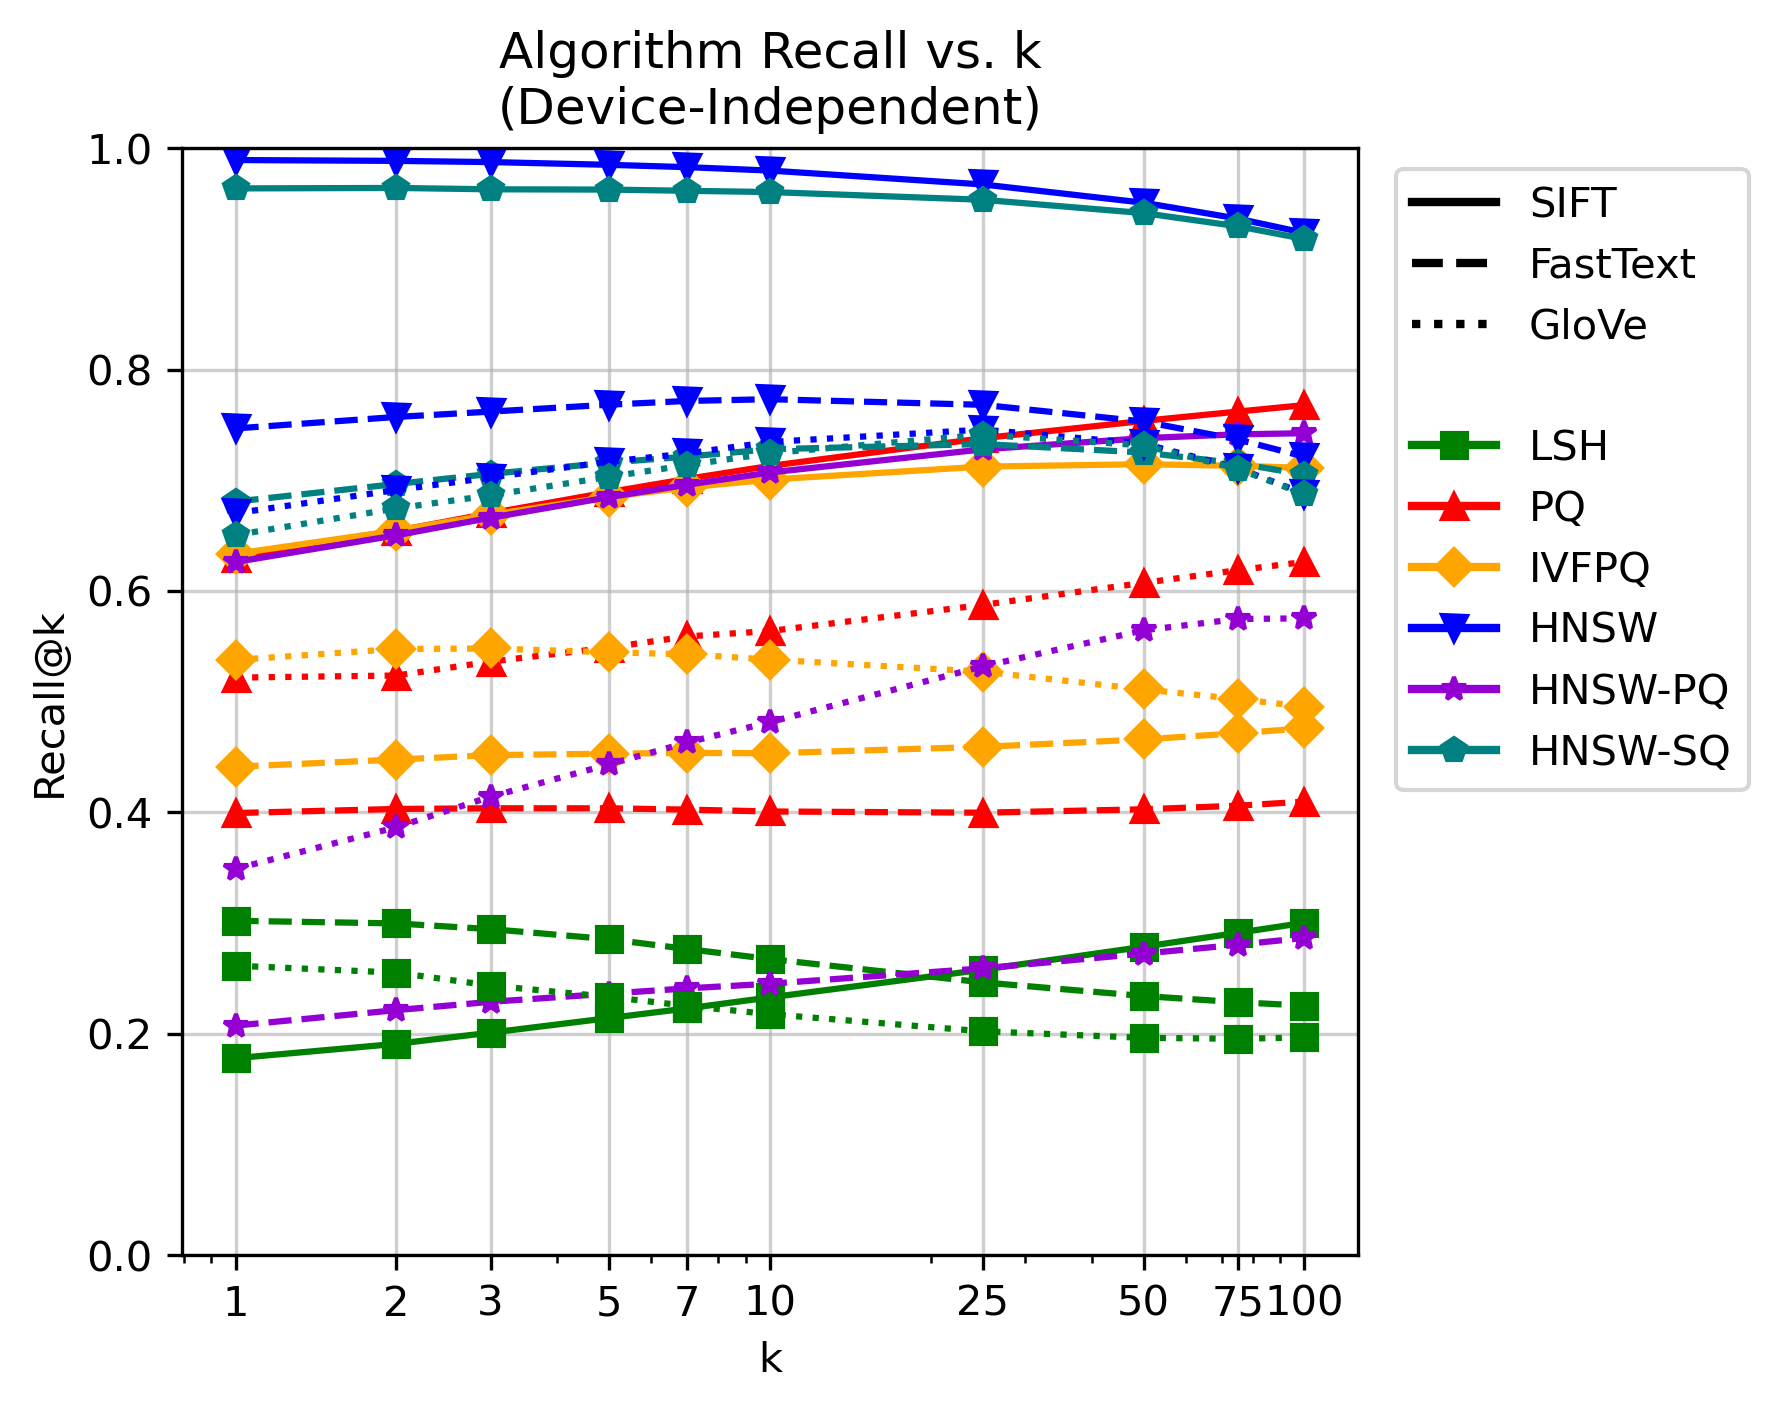
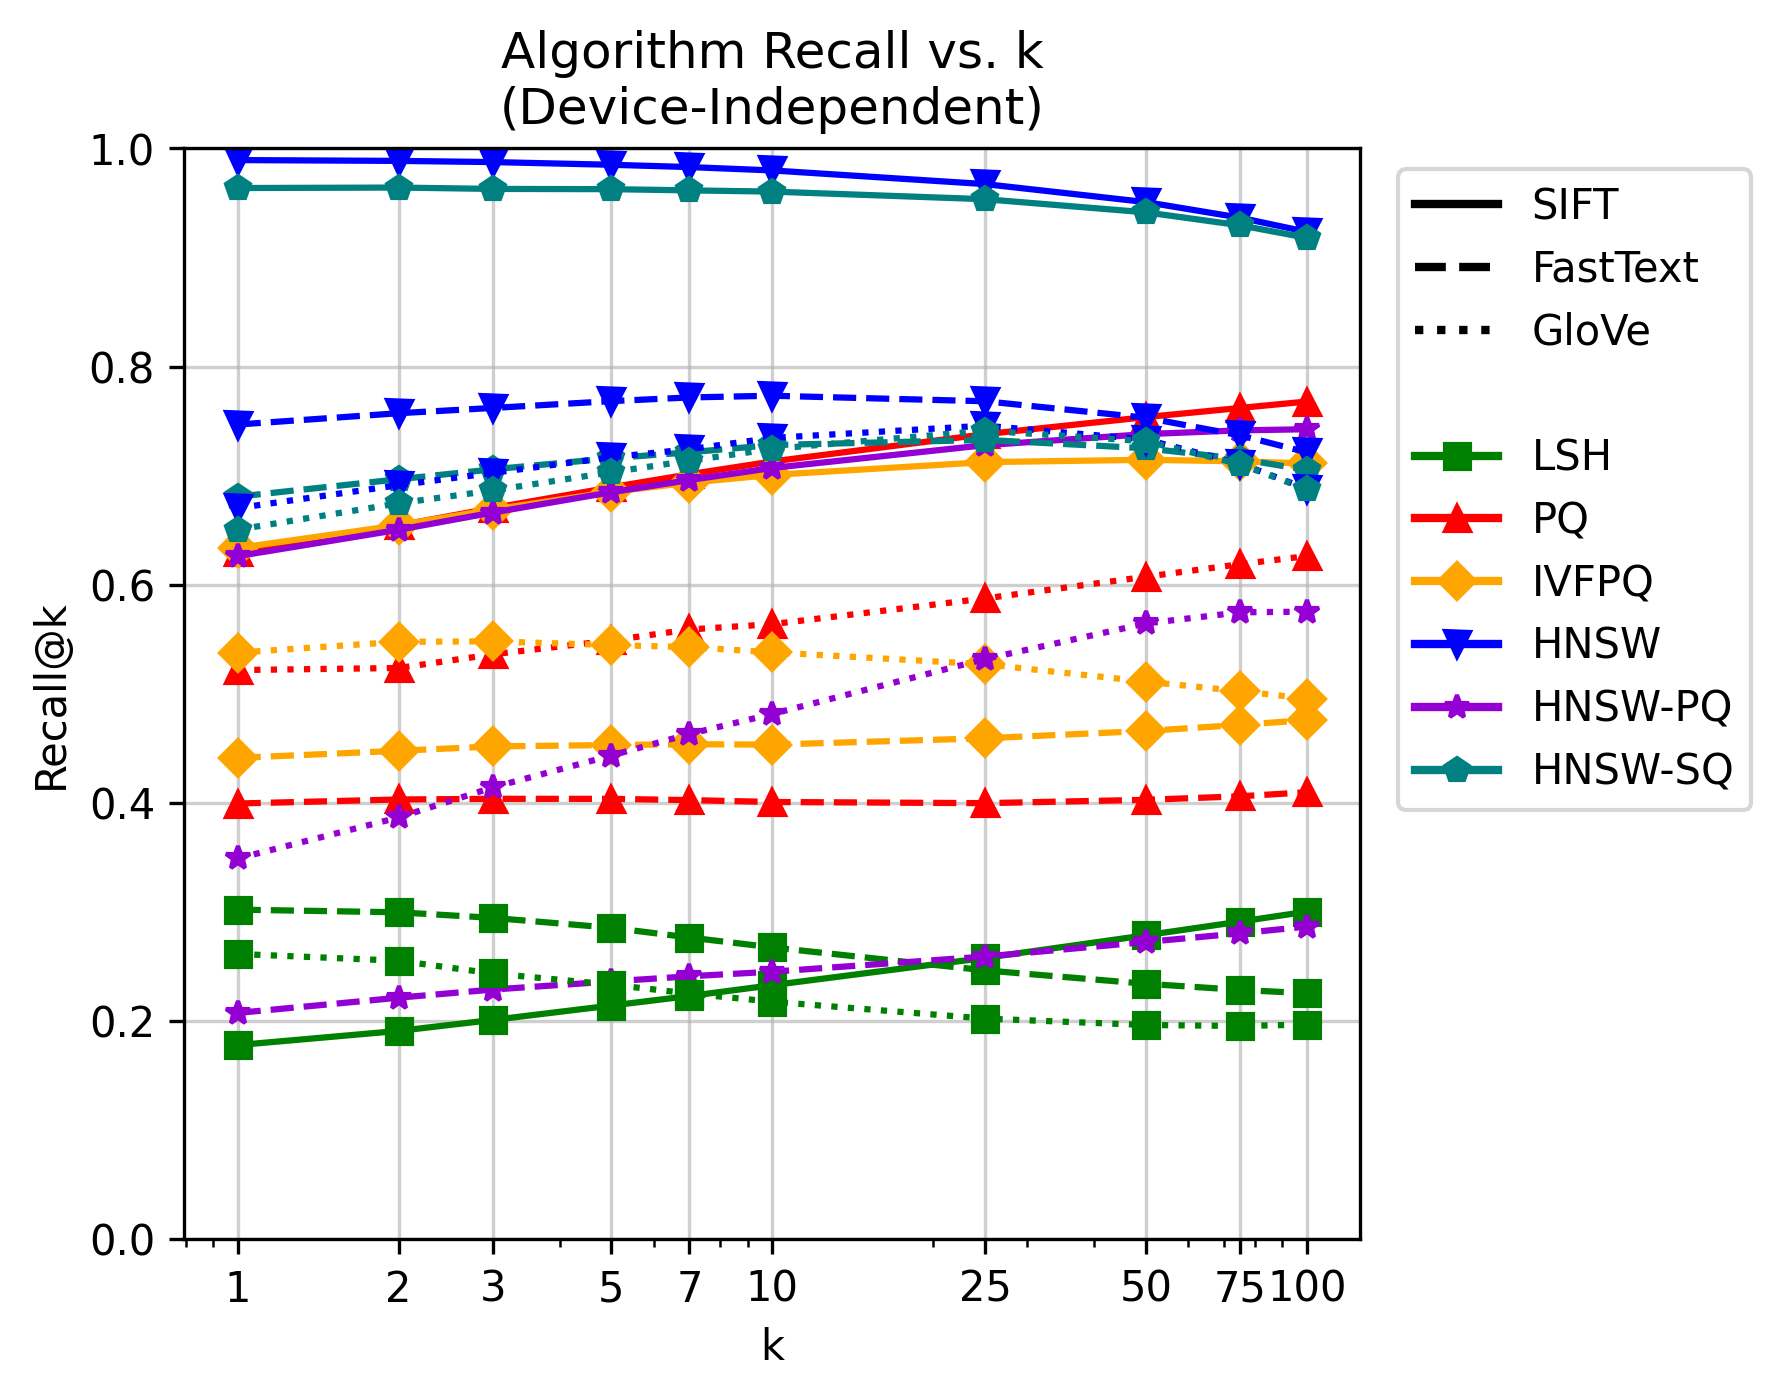
graph aesthetics updates

diff --git a/vector_similarity_test/grapher.py b/vector_similarity_test/grapher.py
@@ -56,9 +56,11 @@ if "multitest" in bf3_results:
 
 
 
-SPACEV_N = results[device][dataset][str(dimensions)][str(num_vecs)]
 SPACEV_D = 100
-
+try:
+    SPACEV_N = results["host"][SPACEV][SPACEV_D].keys()[0]
+except:
+    SPACEV_N = None
 
 
 # Define helper functions
@@ -154,7 +156,10 @@ def make_legend_lines(colors, alphas, styles, marks):
 rs   = get_kvaried_run("host", SIFT,     SIFT_D,      SIFT_N,      DEFAULT_THREADS)
 rf   = get_kvaried_run("host", FASTTEXT, FASTTEXT_D,  FASTTEXT_N,  DEFAULT_THREADS)
 rg   = get_kvaried_run("host", GLOVE,    GLOVE_D,     GLOVE_N,     DEFAULT_THREADS)
-rv = get_kvaried_run("host", SPACEV, SPACEV_D, SPACE_N, DEFAULT_THREADS)
+try:
+    rv = get_kvaried_run("host", SPACEV, SPACEV_D, SPACEV_N, DEFAULT_THREADS)
+except KeyError:
+    rv = None
 k  = rg["k_values"]
 
 # Setup Custom Legend
@@ -275,7 +280,10 @@ finish_plot("scatter_time_cost.png")
 rs_b  = get_kvaried_run("bf3", SIFT,     SIFT_D,      SIFT_N,      DEFAULT_THREADS)
 rf_b  = get_kvaried_run("bf3", FASTTEXT, FASTTEXT_D,  FASTTEXT_N,  DEFAULT_THREADS)
 rg_b  = get_kvaried_run("bf3", GLOVE,    GLOVE_D,     GLOVE_N,     DEFAULT_THREADS)
-rv_b = get_kvaried_run("bf3", SPACEV, SPACEV_D, SPACEV_N, DEFAULT_THREADS )
+try:
+    rv_b = get_kvaried_run("bf3", SPACEV, SPACEV_D, SPACEV_N, DEFAULT_THREADS )
+except KeyError:
+    rv_b = None
 r_h = (rs, rf, rg)
 r_b = (rs_b, rf_b, rg_b)
 
@@ -316,7 +324,8 @@ for name, alpha, size in zip(DATASET_NAMES, (1.0, 0.5, 0.2), (30, 20, 10)):
 plt.scatter([], [], color='black', alpha=0, label=' ')
 
 # Plot Chosen params
-for size, linestyle, host_data, bf3_data in ((40, "-", rv, rv_b )(30, "--", rs, rs_b), (20, "-.", rf, rf_b), (10, ":", rg, rg_b)):
+params = ((40, "-", rv, rv_b ), (30, "--", rs, rs_b), (20, "-.", rf, rf_b), (10, ":", rg, rg_b)) if rv_b is not None else ((30, "--", rs, rs_b), (20, "-.", rf, rf_b), (10, ":", rg, rg_b))
+for size, linestyle, host_data, bf3_data in params:
     for alg, times, color, m, name in zip(ALG_RECALLS, ALG_TIMES, ALG_COLORS, ALG_MARKERS, ALG_NAMES):
         try:
             t = queries_per_second(host_data[times], host_data["query_size"], ms=False)
@@ -350,15 +359,15 @@ sizes = np.linspace(4, 50, len(x))
 alphas = np.linspace(1.0, 1.0, len(x)) # 0.1-1.0
 widths = np.linspace(0.5, 2, len(x))
 
-# plt.figure(figsize=(5, 3))
+plt.figure(figsize=(5, 4.8))
 
-# Custom Legend
-plt.scatter([], [], color='black', marker='o', label="Host")
-plt.scatter([], [], edgecolors='black', facecolors='none', marker='o', label='BF3')
-plt.scatter([], [], color='black', alpha=0, label=' ')
-# for name, alpha, size in zip(x_labels, alphas, sizes):
-#     plt.scatter([], [], color='black', marker='o', label=name, s=size, alpha=alpha)
+# # Custom Legend
+# plt.scatter([], [], color='black', marker='o', label="Host")
+# plt.scatter([], [], edgecolors='black', facecolors='none', marker='o', label='BF3')
 # plt.scatter([], [], color='black', alpha=0, label=' ')
+# # for name, alpha, size in zip(x_labels, alphas, sizes):
+# #     plt.scatter([], [], color='black', marker='o', label=name, s=size, alpha=alpha)
+# # plt.scatter([], [], color='black', alpha=0, label=' ')
 
 for host_data, bf3_data, size, alpha, w in zip(rs_scale, rs_b_scale, sizes, alphas, widths):
     for alg, times, color, m, name in zip(ALG_RECALLS, ALG_TIMES, ALG_COLORS, ALG_MARKERS, ALG_NAMES):
@@ -380,7 +389,7 @@ setup_plot(
     xlabel=f"{DEFAULT_K}-Recall@{DEFAULT_K}",
     ylabel="Queries / Sec.",
     yscale='log',
-    # legend=False,
+    legend=False,
     xlim=True,
 )
 # plt.legend(bbox_to_anchor=(1.35, 1))
@@ -400,15 +409,16 @@ for r in rs_scale_16:
 for r in rs_b_scale_16:
     assert r["k_values"][0] == DEFAULT_K, f"Expected k={DEFAULT_K} for all runs"
 
-# plt.figure(figsize=(5, 3))
+plt.figure(figsize=(7, 4.8))
 
 # Custom Legend
 plt.scatter([], [], color='black', marker='o', label="Host")
 plt.scatter([], [], edgecolors='black', facecolors='none', marker='o', label='BF3')
 plt.scatter([], [], color='black', alpha=0, label=' ')
-# for name, alpha, size in zip(x_labels, alphas, sizes):
-#     plt.scatter([], [], color='black', marker='o', label=name, s=size, alpha=alpha)
-# plt.scatter([], [], color='black', alpha=0, label=' ')
+# Legend for sizes
+for name, size in zip(x_labels, sizes):
+    plt.scatter([], [], color='black', marker='o', label=name, s=size)
+plt.scatter([], [], color='black', label=' ', alpha=0)
 
 for host_data, bf3_data, size, alpha, w in zip(rs_scale_16, rs_b_scale_16, sizes, alphas, widths):
     for alg, times, color, m, name in zip(ALG_RECALLS, ALG_TIMES, ALG_COLORS, ALG_MARKERS, ALG_NAMES):
@@ -433,7 +443,7 @@ setup_plot(
     # legend=False,
     xlim=True,
 )
-# plt.legend(bbox_to_anchor=(1.35, 1))
+plt.legend(bbox_to_anchor=(1.35, 1))
 finish_plot(f"time_comparison_scaling_eq16threads.png")
 
 # NOTES:
